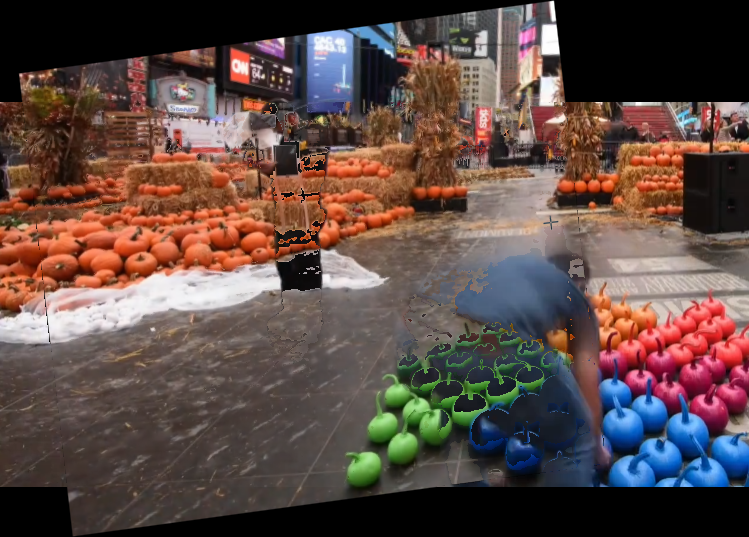
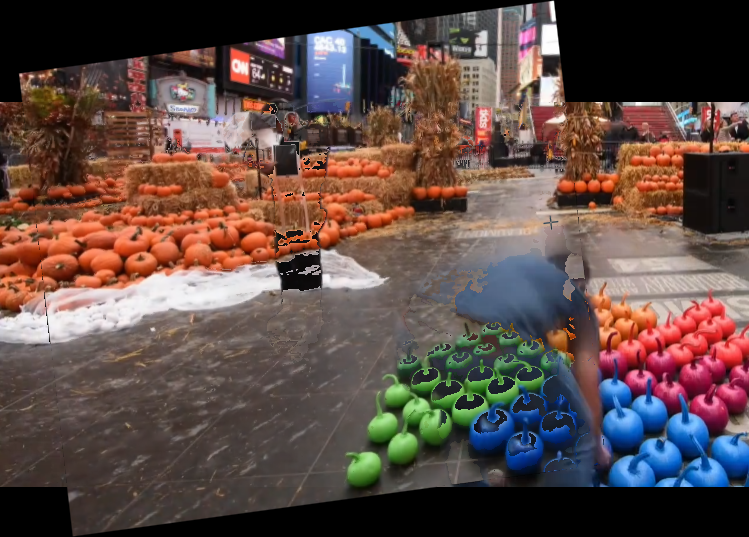
task1 alternative foreground elimination finished - slight improvement

diff --git a/stitching.py b/stitching.py
@@ -136,20 +136,20 @@ def stitch_background(imgs: Dict[str, torch.Tensor]):
         overlap_mask = mask1 * mask2
         # Calculate norm diff between imgs in overlap mask and threshold for foreground
         diff = torch.norm((warp_img1 - warp_img2) / 255.0, dim=0)
-        foreground_mask = (diff > 0.2) * overlap_mask
-        # # Determine which image contains the background at foreground mask pixels
-        # # Use each img's distance from the global median
-        # # Smaller distance indicates background
-        # all_pixels = torch.cat([img1.reshape(c, -1), img2.reshape(c, -1)], dim=1) / 255.0
-        # rgb_medians = torch.median(all_pixels, dim=1)[0].view(-1, 1, 1)
-        # dist1 = torch.norm(warp_img1 / 255.0 - rgb_medians, dim=0)
-        # dist2 = torch.norm(warp_img2 / 255.0 - rgb_medians, dim=0)
-        
+        foreground_mask = (diff > 0.2) * overlap_mask        
         # Determine which image contains the background at foreground mask pixels
         # Use non-overlapping regions as guaranteed background
         only_mask1 = (mask1 * (1 - mask2))
         only_mask2 = (mask2 * (1 - mask1))
-        
+        # Calculate number of pixels for average calculation
+        n1 = only_mask1.sum().clamp(min=1.0)
+        n2 = only_mask2.sum().clamp(min=1.0)
+        # Derive mean background color per image from its non-overlapping region
+        bg1 = (warp_img1 * only_mask1.unsqueeze(0)).sum(dim=(1, 2), keepdim=True) / n1
+        bg2 = (warp_img2 * only_mask2.unsqueeze(0)).sum(dim=(1, 2), keepdim=True) / n2
+        # Per-pixel distance from each image's own background model
+        dist1 = torch.norm((warp_img1 - bg1) / 255, dim=0)
+        dist2 = torch.norm((warp_img2 - bg2) / 255, dim=0)
          
         # Step 5. Construct mosaic
         # Initialize zero matrix as canvas for mosaic
